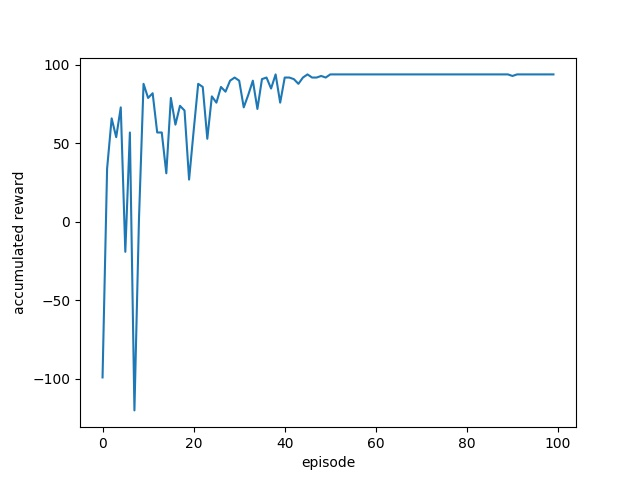
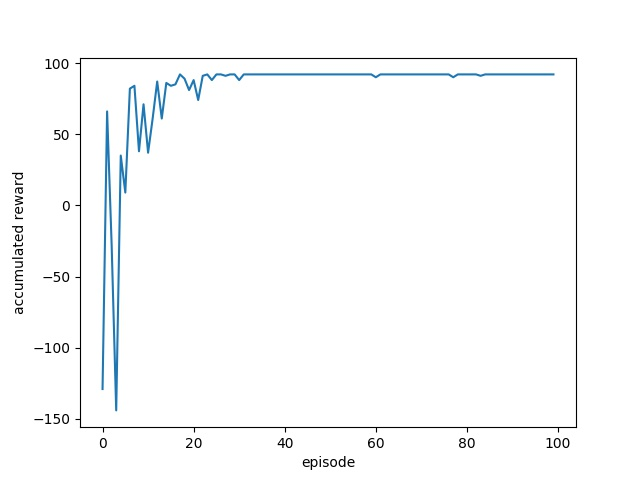
add wall to map

diff --git a/grid_world.py b/grid_world.py
@@ -2,8 +2,9 @@ import numpy as np
 import copy
 
 FILED_TIPE = {
-    "N":0, 
-    "G":1,
+    "N":0,  #通常
+    "G":1,  #ゴール
+    "W":2,  #壁
     }
 
 ACTIONS = {
@@ -20,16 +21,16 @@ class GridWorld():
     def __init__(self):
 
         self.map = [
-                [0, 0, 0, 0, 0, 0, 0, 0, 0, 0], 
-                [0, 0, 0, 0, 0, 0, 0, 0, 0, 0], 
-                [0, 0, 0, 0, 0, 0, 0, 0, 0, 0], 
-                [0, 0, 0, 0, 0, 0, 0, 1, 0, 0], 
-                [0, 0, 0, 0, 0, 0, 0, 0, 0, 0], 
-                [0, 0, 0, 0, 0, 0, 0, 0, 0, 0], 
-                [0, 0, 0, 0, 0, 0, 0, 0, 0, 0], 
+                [0, 0, 0, 0, 0, 0], 
+                [0, 0, 0, 0, 0, 1], 
+                [0, 0, 0, 0, 2, 0], 
+                [0, 0, 0, 2, 0, 0], 
+                [0, 0, 0, 0, 2, 2], 
+                [0, 0, 0, 0, 0, 0], 
+                [0, 0, 0, 0, 0, 0], 
                 ]
 
-        self.start_pos = 3, 0 # エージェントのスタート地点(y, x)
+        self.start_pos =  5, 0 # エージェントのスタート地点(y, x)
         self.agent_pos = copy.deepcopy(self.start_pos)  # エージェントがいる地点
 
     def step(self, action):
@@ -64,6 +65,15 @@ class GridWorld():
         else:
             return False
 
+    def _is_wall(self, x, y):
+        """
+            x, yが壁かどうかの確認
+        """
+        if self.map[y][x] == FILED_TIPE["W"]:
+            return True
+        else:
+            return False
+
     def _is_possible_action(self, x, y, action):
         """ 
             実行可能な行動かどうかの判定
@@ -85,6 +95,8 @@ class GridWorld():
         if len(self.map) <= to_y or 0 > to_y:
             return False
         elif len(self.map[0]) <= to_x or 0 > to_x:
+            return False
+        elif self._is_wall(to_x, to_y):
             return False
 
         return True

diff --git a/qlearning_agent.py b/qlearning_agent.py
@@ -11,7 +11,6 @@ class QLearningAgent():
         self.policy = policy
         self.reward_history = []
         self.actions = actions
-        self.gamma = gamma
         self.state = str(observation)
         self.ini_state = str(observation)
         self.previous_state = None
